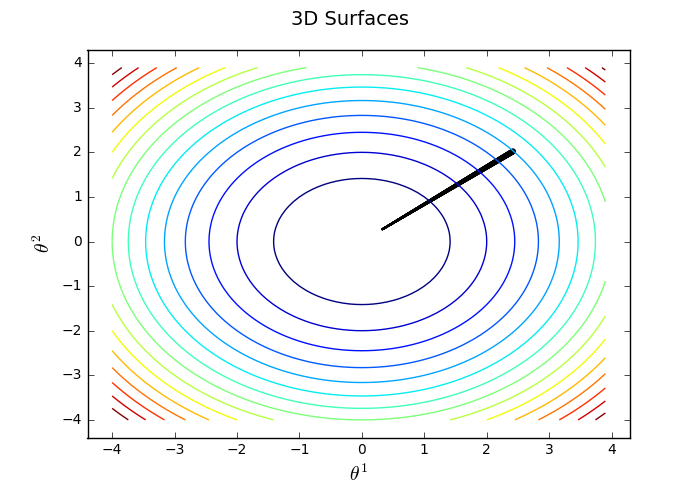
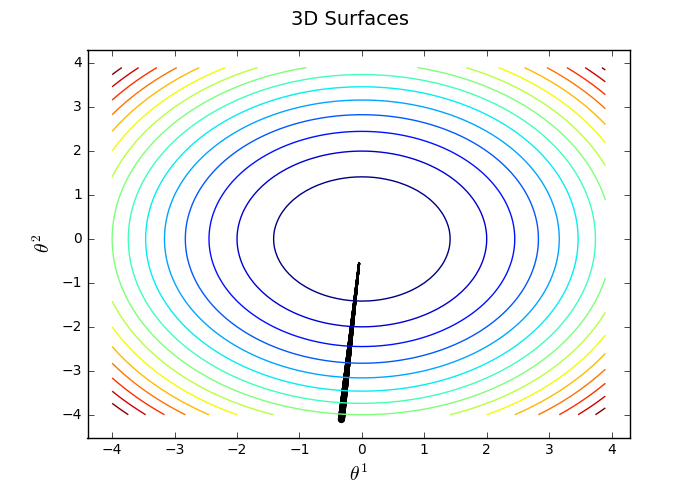
refactor optimization visualizations

diff --git a/examples/optimizations/opt_viz.py b/examples/optimizations/opt_viz.py
@@ -8,26 +8,26 @@ from ztlearn.toolkit import GbOptimization as gbopt
 
 """2D module"""
 
-def f(x):
-   return x[0]**2
-
-def df(x):
-   return np.array([2*x[0]])
-
-opt = register_opt(optimizer_name = 'sgd', momentum = 0.1, learning_rate = 0.1)
-optim = gbopt(optimizer = opt, init_method = 'he_normal')
-optim.run(f, df, params = 1, epochs = 100)
-optim.plot_2d(f)
+# def f(x):
+#    return x[0]**2
+#
+# def df(x):
+#    return np.array([2*x[0]])
+#
+# opt = register_opt(optimizer_name = 'sgd', momentum = 0.1, learning_rate = 0.1)
+# optim = gbopt(optimizer = opt, init_method = 'he_normal')
+# optim.run(f, df, params = 1, epochs = 100)
+# optim.plot_2d(f)
 
 """3D module"""
 
-# def f2(x):
-#     return x[0]**2 + x[1]**2
-#
-# def df2(x):
-#     return np.array([2*x[0], 2*x[1]])
-#
-# opt = register_opt(optimizer_name = 'sgd_momentum', momentum = 0.1, learning_rate = 0.001)
-# optim = gbopt(optimizer = opt, init_method = 'glorot_normal')
-# optim.run(f2, df2, params = 2, epochs = 1000)
-# optim.plot_3d(f2)
+def f2(x):
+    return x[0]**2 + x[1]**2
+
+def df2(x):
+    return np.array([2*x[0], 2*x[1]])
+
+opt = register_opt(optimizer_name = 'sgd_momentum', momentum = 0.1, learning_rate = 0.001)
+optim = gbopt(optimizer = opt, init_method = 'glorot_normal')
+optim.run(f2, df2, params = 2, epochs = 1000)
+optim.plot_3d(f2)

diff --git a/ztlearn/utils/charts.py b/ztlearn/utils/charts.py
@@ -73,21 +73,15 @@ def plot_opt_viz(dims,
                         f_solution,
                         overlay = 'plot',
                         to_save = True,
-
                         title = 'Optimization',
                         title_dict = {'size' : LARGE_FONT},
-
-                        fig_dims = (7, 5),
-
+                        fig_dims = FIG_SIZE,
                         xticks_dict = {'size' : LARGE_FONT},
                         yticks_dict = {'size' : LARGE_FONT},
-
                         xlabel = r'$\theta^1$',
                         xlabel_dict = {'size' : LARGE_FONT},
-
                         ylabel = r'$\theta^2$',
                         ylabel_dict = {'size' : LARGE_FONT},
-
                         legend = ['train', 'valid'],
                         legend_dict = {}):
 
